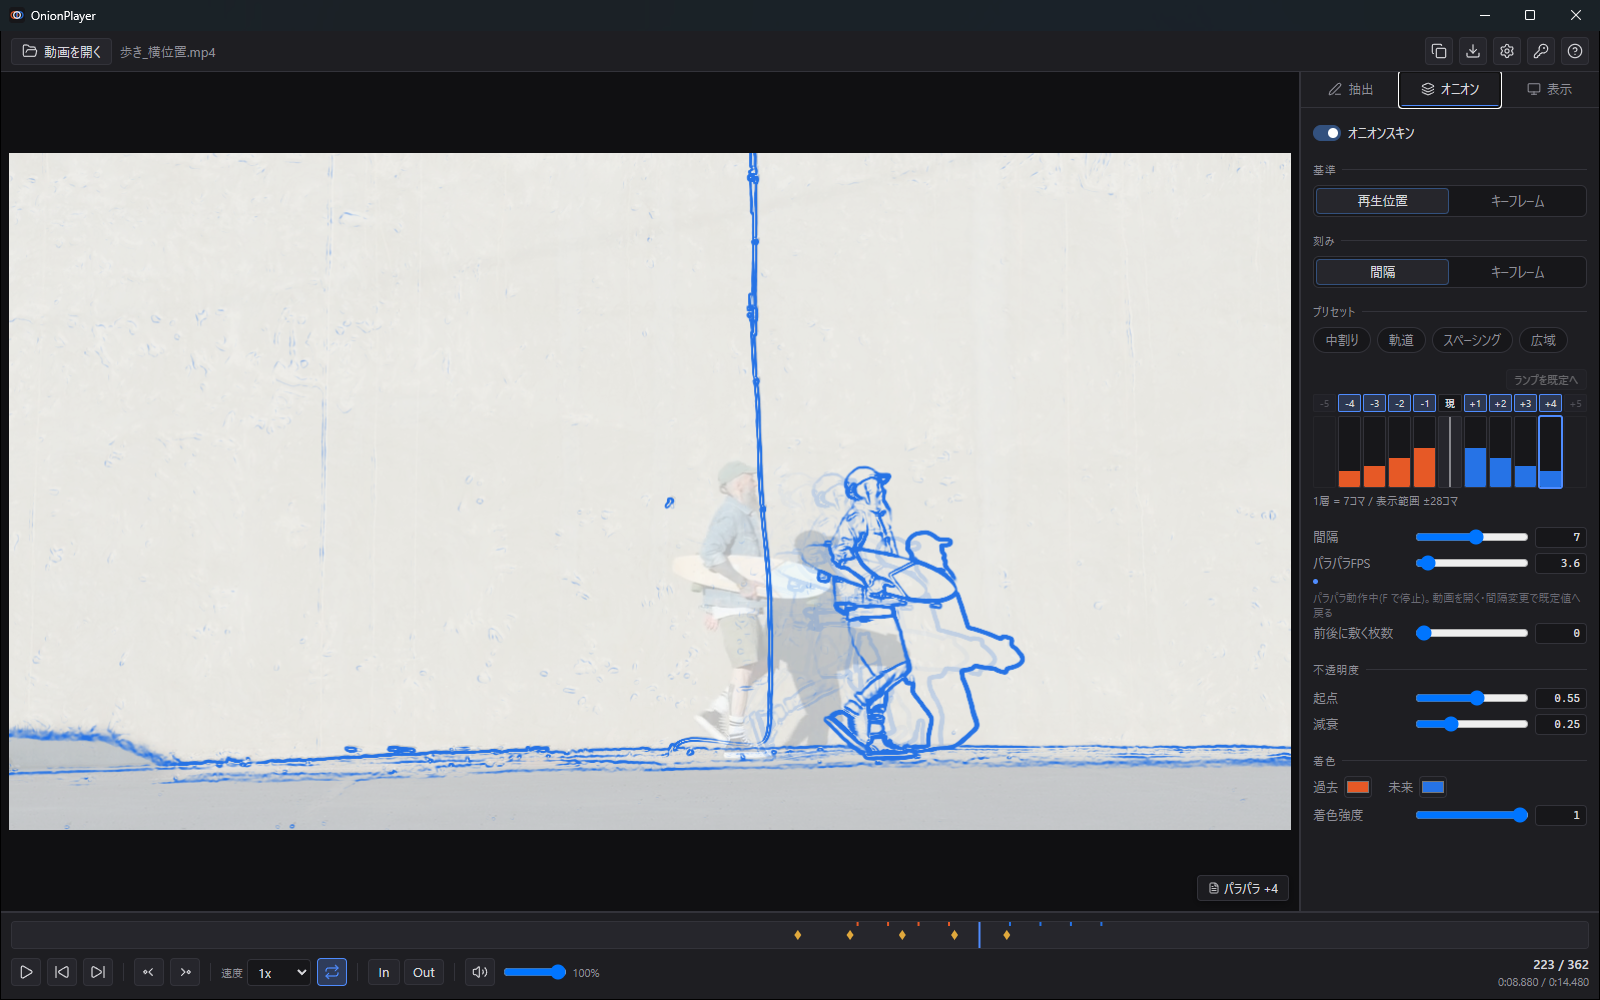
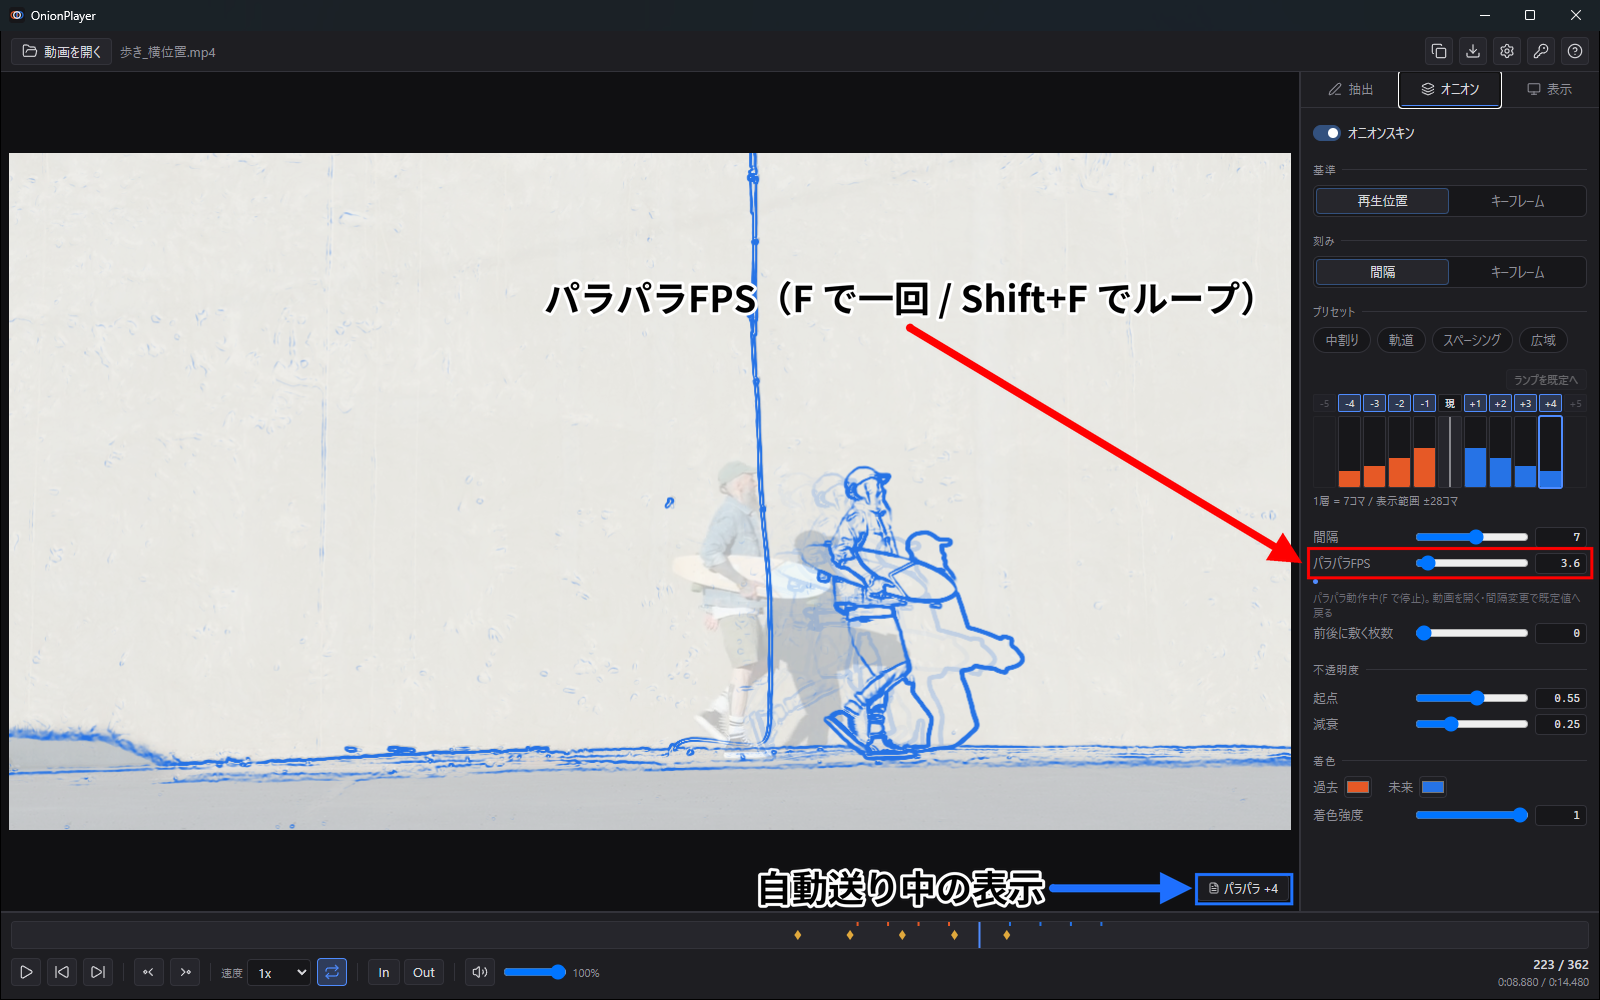
docs: ガイド画像 19 枚に注釈（矩形・矢印・番号）を入れ、本文から「図の ①」で参照する
これまでの画像は素のスクショで、本文が「右パネルの抽出タブで」と書いても
図のどこを見ればよいかは読者が探す必要があった。record-for-ai の注釈ツール
（注釈は再描画できる仕様として持ち、生素材は変えない）で、本文が言及する
UI だけを指す注釈を入れた。

- QUICKSTART §3、USER_GUIDE §3〜§12 の 19 枚を注釈済みに差し替え
  （ヒーロー・集中モード・効かない例・ライセンスゲート・操作一覧は素のまま）。
- 番号バッジを使う 4 枚（80・200・220・230）と QUICKSTART §3 は、本文・見出し・
  表・alt に「図の ①」を入れて図と一対一にした。本文の説明自体は変えていない。
- 版番号の行は触っていない（v0.1.1 のまま）。

検証: 画像参照は全件解決、注釈なしの 5 枚と landing/assets は従来とバイト一致。

diff --git a/QUICKSTART.md b/QUICKSTART.md
@@ -39,8 +39,8 @@ ZIP を展開し、**`OnionPlayer.exe` をそのまま実行**します。イン
 
 右パネルの **`抽出`** タブで抽出方式を選びます。
 
-- **`シェーダ`** — 追加導入なしで、すぐ使えます。**まずはこれで試してください。**
-  実写素材なら `プリセット` の **`Live Action`**、アニメ素材なら **`Anime`** から始めるとうまくいきます。
+- **`シェーダ`**（図の ①） — 追加導入なしで、すぐ使えます。**まずはこれで試してください。**
+  実写素材なら `プリセット` の **`Live Action`**（図の ②）、アニメ素材なら **`Anime`** から始めるとうまくいきます。
 - **`ML (Lineart)`** — 品質は高いですが、**モデルの導入（約 17MB のダウンロード）が必要**で、
   かつ **Pro 機能**です（後述）。
 - **`なし`** — 元の映像のまま。
